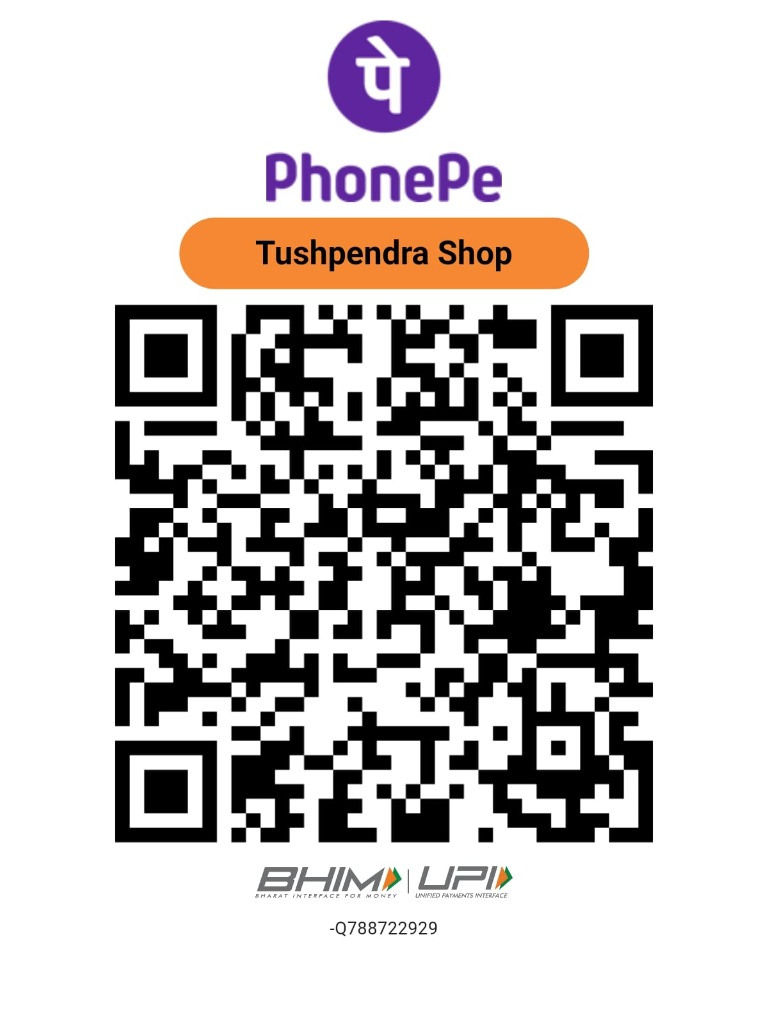
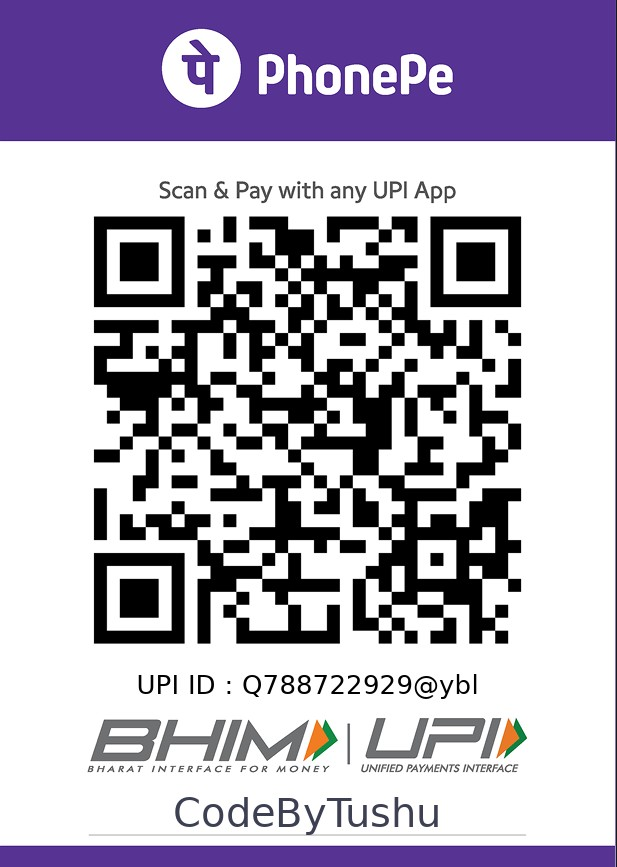
feat(merchant): update payee to CodeByTushu with official PhonePe QR Q788722929@ybl

diff --git a/android/app/src/main/assets/www/pro-coach.js b/android/app/src/main/assets/www/pro-coach.js
@@ -8,7 +8,7 @@
 
   var PRO_STORAGE_KEY = 'tushu_gym_pro_state_v1';
   var PRO_UPI_ID = 'Q788722929@ybl';
-  var PRO_PAYEE_NAME = 'Tushpendra Shop';
+  var PRO_PAYEE_NAME = 'CodeByTushu';
   var PRO_PRICE_INR = 499;
   var PRO_LICENSE_SALT = 'CODEBYTUSHU_PRO_499_VERIFY_2026_TSH';
 
@@ -550,7 +550,7 @@
         '</div>' +
         '<div class="upi-payment-box">' +
           '<div class="upi-qr-frame" style="background:#ffffff; padding:12px; border-radius:14px; text-align:center; border:1px solid #e2e8f0; margin-bottom:12px;">' +
-            '<img id="proOfficialQrImg" src="./images/phonepe-merchant-qr.jpg" alt="PhonePe Merchant QR - Tushpendra Shop" style="max-width:210px; width:100%; height:auto; border-radius:10px; display:block; margin:0 auto; box-shadow:0 4px 14px rgba(0,0,0,0.08);">' +
+            '<img id="proOfficialQrImg" src="./images/phonepe-merchant-qr.png" alt="PhonePe Merchant QR - CodeByTushu" style="max-width:210px; width:100%; height:auto; border-radius:10px; display:block; margin:0 auto; box-shadow:0 4px 14px rgba(0,0,0,0.08);">' +
             '<canvas id="proUpiQrCanvas" width="196" height="196" style="display:none;"></canvas>' +
             '<span style="display:block; font-size:0.72rem; color:#64748b; margin-top:8px; font-weight:600;">Scan with PhonePe, GPay, Paytm or any UPI App</span>' +
           '</div>' +

diff --git a/pro-coach.js b/pro-coach.js
@@ -8,7 +8,7 @@
 
   var PRO_STORAGE_KEY = 'tushu_gym_pro_state_v1';
   var PRO_UPI_ID = 'Q788722929@ybl';
-  var PRO_PAYEE_NAME = 'Tushpendra Shop';
+  var PRO_PAYEE_NAME = 'CodeByTushu';
   var PRO_PRICE_INR = 499;
   var PRO_LICENSE_SALT = 'CODEBYTUSHU_PRO_499_VERIFY_2026_TSH';
 
@@ -550,7 +550,7 @@
         '</div>' +
         '<div class="upi-payment-box">' +
           '<div class="upi-qr-frame" style="background:#ffffff; padding:12px; border-radius:14px; text-align:center; border:1px solid #e2e8f0; margin-bottom:12px;">' +
-            '<img id="proOfficialQrImg" src="./images/phonepe-merchant-qr.jpg" alt="PhonePe Merchant QR - Tushpendra Shop" style="max-width:210px; width:100%; height:auto; border-radius:10px; display:block; margin:0 auto; box-shadow:0 4px 14px rgba(0,0,0,0.08);">' +
+            '<img id="proOfficialQrImg" src="./images/phonepe-merchant-qr.png" alt="PhonePe Merchant QR - CodeByTushu" style="max-width:210px; width:100%; height:auto; border-radius:10px; display:block; margin:0 auto; box-shadow:0 4px 14px rgba(0,0,0,0.08);">' +
             '<canvas id="proUpiQrCanvas" width="196" height="196" style="display:none;"></canvas>' +
             '<span style="display:block; font-size:0.72rem; color:#64748b; margin-top:8px; font-weight:600;">Scan with PhonePe, GPay, Paytm or any UPI App</span>' +
           '</div>' +

diff --git a/android/app/src/main/assets/www/sw.js b/android/app/src/main/assets/www/sw.js
@@ -1,5 +1,5 @@
 // Service Worker for 100% Offline Gym Tracker
-const CACHE_NAME = 'tushu-gym-v0.05-rev5';
+const CACHE_NAME = 'tushu-gym-v0.05-rev6';
 const ASSETS_TO_CACHE = [
   './',
   './index.html',
@@ -15,6 +15,7 @@ const ASSETS_TO_CACHE = [
   './manifest.json',
   './images/hero-goku.jpg',
   './images/phonepe-merchant-qr.jpg',
+  './images/phonepe-merchant-qr.png',
   './icons/icon-192.png',
   './icons/icon-512.png'
 ];

diff --git a/sw.js b/sw.js
@@ -1,5 +1,5 @@
 // Service Worker for 100% Offline Gym Tracker
-const CACHE_NAME = 'tushu-gym-v0.05-rev5';
+const CACHE_NAME = 'tushu-gym-v0.05-rev6';
 const ASSETS_TO_CACHE = [
   './',
   './index.html',
@@ -15,6 +15,7 @@ const ASSETS_TO_CACHE = [
   './manifest.json',
   './images/hero-goku.jpg',
   './images/phonepe-merchant-qr.jpg',
+  './images/phonepe-merchant-qr.png',
   './icons/icon-192.png',
   './icons/icon-512.png'
 ];

diff --git a/android/app/src/main/java/com/athletic/gymtracker/MainActivity.java b/android/app/src/main/java/com/athletic/gymtracker/MainActivity.java
@@ -376,7 +376,7 @@ public class MainActivity extends AppCompatActivity {
                 try {
                     pendingUpiTxnRef = txnRef != null ? txnRef : "";
                     String safeUpiId = (upiId != null && !upiId.trim().isEmpty()) ? upiId.trim() : "Q788722929@ybl";
-                    String safePayee = (payeeName != null && !payeeName.trim().isEmpty()) ? payeeName.trim() : "Tushpendra Shop";
+                    String safePayee = (payeeName != null && !payeeName.trim().isEmpty()) ? payeeName.trim() : "CodeByTushu";
                     String safeNote = (note != null && !note.trim().isEmpty()) ? note.trim() : "Gym Plan Pro Lifetime";
                     String safeAmount = (amount != null && !amount.trim().isEmpty()) ? amount.trim() : "499.00";
 
@@ -392,7 +392,7 @@ public class MainActivity extends AppCompatActivity {
                     Intent upiIntent = new Intent(Intent.ACTION_VIEW, uri);
                     if (!getPackageManager().queryIntentActivities(upiIntent, 0).isEmpty()
                             || upiIntent.resolveActivity(getPackageManager()) != null) {
-                        Intent chooser = Intent.createChooser(upiIntent, "Pay ₹499 to Tushpendra Shop via UPI");
+                        Intent chooser = Intent.createChooser(upiIntent, "Pay ₹499 to CodeByTushu via UPI");
                         upiPaymentLauncher.launch(chooser);
                     } else {
                         JSONObject errPayload = new JSONObject();
